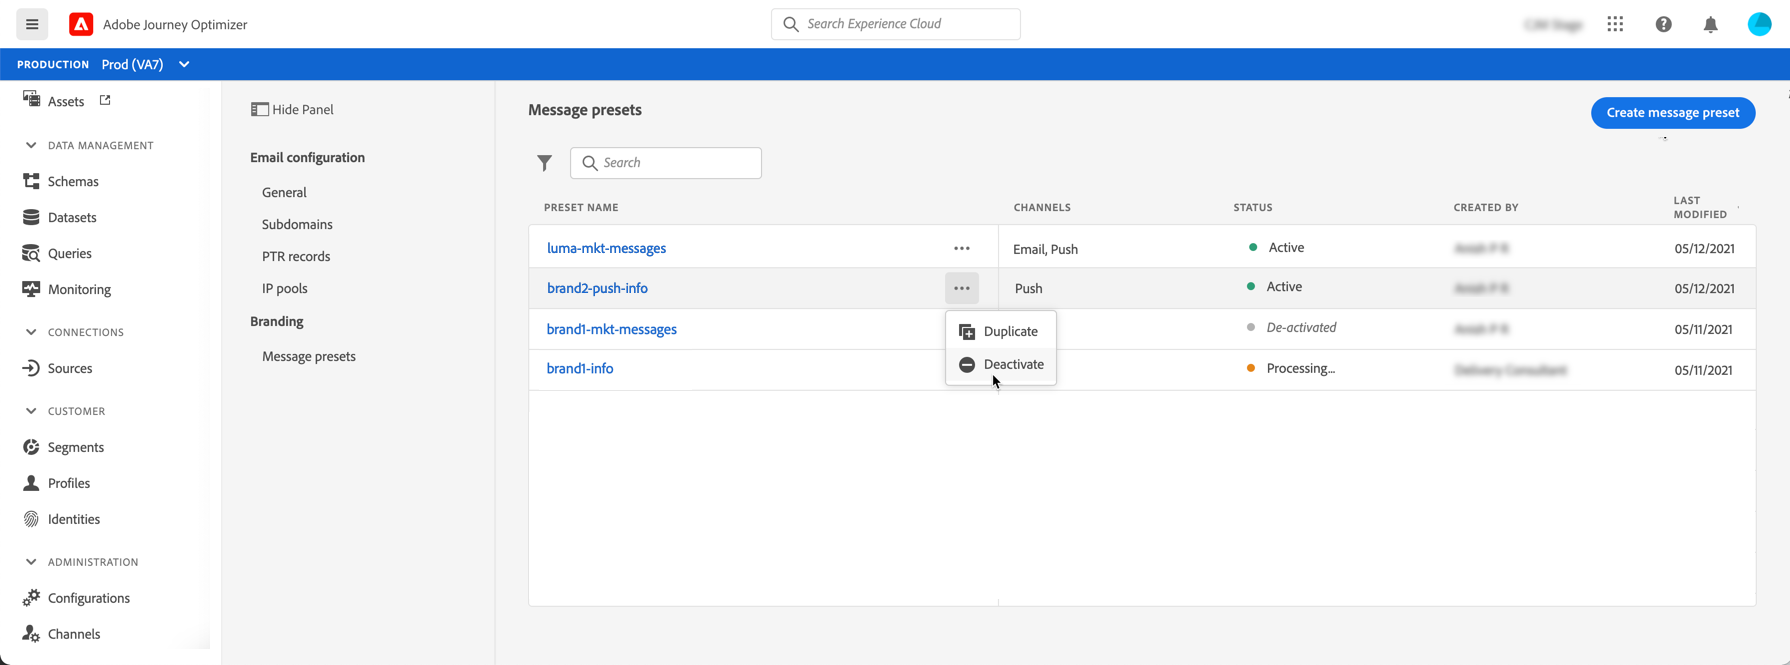
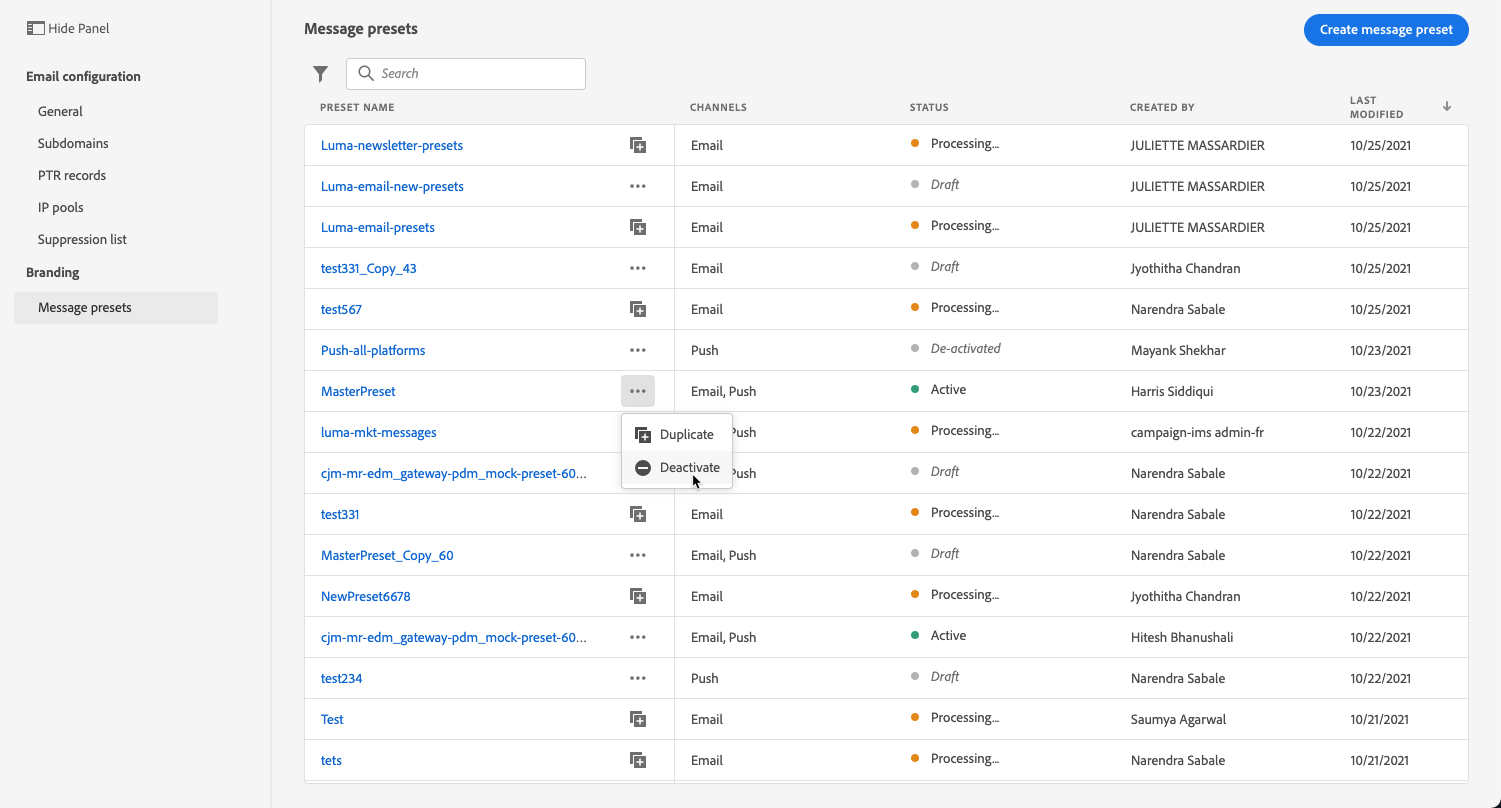
Presets updates + answers

diff --git a/help/using/configuration/message-presets.md b/help/using/configuration/message-presets.md
@@ -127,7 +127,7 @@ To create a message preset, follow these steps:
 
 ## Monitor message presets {#monitor-message-presets}
 
-All your message presets display in the **[!UICONTROL Channels]** / **[!UICONTROL Message presets]** menu. Filters are available to help you browse through the list (channel type, user, status).
+All your message presets display in the **[!UICONTROL Channels]** > **[!UICONTROL Message presets]** menu. Filters are available to help you browse through the list (channel type, user, status).
 
 ![](../assets/preset-filters.png)
 
@@ -137,7 +137,7 @@ Message presets can have the following statuses:
 * **[!UICONTROL Processing]**: The message preset has been submitted and is going through several verifications steps.
 * **[!UICONTROL Active]**: The message preset has been verified and can be selected to create messages.
 * **[!UICONTROL Failed]**: One or several checks have failed during the message preset verification.
-* **[!UICONTROL De-activated]**: The message preset is de-activated. It cannot be used to create new messages.
+* **[!UICONTROL Deactivated]**: The message preset is deactivated. It cannot be used to create new messages.
 
 In case a message preset creation fails, the details on each possible failure reason are described below.
 
@@ -155,7 +155,7 @@ If one of these errors occurs, contact the [Adobe Customer Care Support Team](ht
     * Emails being sent from IPs other than the ones specified in the IP pool of the corresponding preset
     * Unable to deliver emails to inboxes of major ISPs like Gmail and Yahoo
 
-## Edit a message preset
+## Edit a message preset {#edit-message-preset}
 
 To edit a message preset, follow the steps below.
 
@@ -165,63 +165,69 @@ To edit a message preset, follow the steps below.
 
 1. From the list, click a message preset name to open it.
 
+    ![](../assets/preset-name.png)
+
 1. Edit its properties as desired.
 
     >[!NOTE]
     >
     >If a message preset has the **[!UICONTROL Active]** status, the **[!UICONTROL Name]**, **[!UICONTROL Select channel]** and **[!UICONTROL Subdomain]** fields are greyed out and cannot be edited.
 
-1. Click **[!UICONTROL Submit/Update]** to save your changes.
+1. Click **[!UICONTROL Submit]** to confirm your changes.
 
-1. Confirm the update.
+    ![](../assets/preset-confirm-update.png)
 
-Changes made to a message preset with the **[!UICONTROL Active]** status will automatically be applied to all messages currently using this preset.
+    >[!NOTE]
+    >
+    >You can also save the message preset as draft and resume update later on.
 
-An **[!UICONTROL Updating]** icon displays next to the name of the preset in the message presets list.
+Once the changes are submitted, the message preset will go through the same validation cycle as during the [creation step](#create-message-preset).
 
->[!NOTE]
->
->You cannot modify a message preset while update is in progress. You can still click its name, but all the fileds are greyed out. The changes to its settings will not be reflected until the update is successful.
+<!--To check the message preset update details, click the **[!UICONTROL More actions]** button and select **[!UICONTROL Recent updates]**. (TBC)
 
-To check the message preset update details, click the **[!UICONTROL More actions]** button and select **[!UICONTROL Recent updates]**.
+You can also access the update details from a message preset while update is in progress.(TBC)
 
->[!NOTE]
->
->You can also access the update details from a message preset while update is in progress.
+You can see information such as the update status, the approximate remaining time before completion (if validation is in progress), and the list of requested changes. (TBC)-->
 
-You can see information such as the update status with the approximate remaining time before completion and the list of requested changes.
+### Update statuses
 
-If update to a message preset fails, that preset is editable again. Click the preset name and update the settings that need to be fixed.
+A message preset update can have the following statuses:
 
-***
+* **[!UICONTROL Processing]**: The message preset update has been submitted and is going through several verifications steps.
+* **[!UICONTROL Success]**: The updated message preset has been verified and can be selected to create messages.
+* **[!UICONTROL Failed]**: One or several checks have failed during the message preset update verification.
 
-Questions:
+**Processing**
 
-* The message preset will go through the same validation cycle as during the [creation step](#create-message-preset)?
-
-    Like for message preset creation, several checks will be performed to verify that it has been configured properly. The processing time is around **48h-72h**, and can take up to **7-10 days**?
-
-* You can also save the message preset update as draft and resume its configuration later on?
-
-* Once the message preset changes have been submitted, it displays in the list with which status? If active still active, if draft: still draft if you save as a draft, processing if you submit the changes?
-
-* The update is effective immediately or asynchronously, depending on the updated settings requiring validation process or not:
-
-    * If/For xxx settings, the update is instantaneous (**[!UICONTROL Active]** status).
-    * If xxx settings, the update can take up to 7-10 business days (**[!UICONTROL Processing]** status).
-
+Several deliverability checks will be performed to verify that the preset has been updated properly. The processing time is around **48h-72h**, and can take up to **7-10 days**. Learn more on the checks performed during the validation cycle in [this section](#create-message-preset).
 
 >[!NOTE]
 >
->Once preset is updated successfully and gets the **[!UICONTROL Active]** status, you may have to wait:
->* a few minutes before it is consumed by the unitary messages,
->* until the next batch for the IP pool to be effective in batch messages.
+>You cannot modify a message preset while update is in progress. You can still click its name, but all the fields are greyed out. The changes will not be reflected until the update is successful.
 
-OR:
+If you edit a preset that was already active:
+* Its status remains **[!UICONTROL Active]** while the validation process is in progress.
+* The **[!UICONTROL Updating]** icon displays next to the name of the preset in the message presets list.
+* During the validation process, the messages configured using this preset are still using the older version of the preset.
 
->[!NOTE]
->
->Once the changes are validated, the preset gets the **[!UICONTROL Active]** status and is ready to be used to create new messages.
+**Success**
+
+Once the validation process is successful, the new version of the preset is automatically used in all messages using this preset. However, you may have to wait:
+* a few minutes before it is consumed by the unitary messages,
+* until the next batch for the preset to be effective in batch messages.
+
+<!--Changes made to a message preset with the **[!UICONTROL Active]** status will automatically be applied to all messages currently using this preset.-->
+
+**Failed**
+
+If the validation process fails, the older version of the preset will still be used.
+
+When the update fails, the preset becomes editable again. You can then click its name and update the settings that need to be fixed. <!--Learn more on the possible failure reasons in [this section](#monitor-message-presets).-->
+
+The possible update error types are as follows:
+**Authorization error**: the bearer token is invalid or not authorized.
+**Illegal modification**: an edit was performed on one or more non-allowed fields.
+**Precondition failed**: some fields can have only specific values and this has not been honored.
 
 ## Deactivate a message preset
 
@@ -233,17 +239,17 @@ To make an active message preset unavailable to create new messages, you can dea
 
 1. Select **[!UICONTROL Deactivate]**.
 
+    ![](../assets/preset-deactivate.png)
+
 >[!NOTE]
 >
 >Deactivated message presets cannot be deleted to avoid any issue in journeys using these presets to send messages.
 
-You cannot directly edit a deactivated message preset. However you can duplicate it and edit the copy to create a new version that you will use to create new messages.
+You cannot directly edit a deactivated message preset. However, you can duplicate it and edit the copy to create a new version that you will use to create new messages.
 
-1. Access the message presets list, then de-activate the message preset that you want to edit.
+1. Access the message presets list, then deactivate the message preset that you want to edit.
 
-    ![](../assets/preset-deactivate.png)
-
-1. Duplicate the de-activated message preset. A copy with the **[!UICONTROL Draft]** status is automatically added to the list.
+1. Duplicate the deactivated message preset. A copy with the **[!UICONTROL Draft]** status is automatically added to the list.
 
     ![](../assets/preset-duplicated.png)
 
